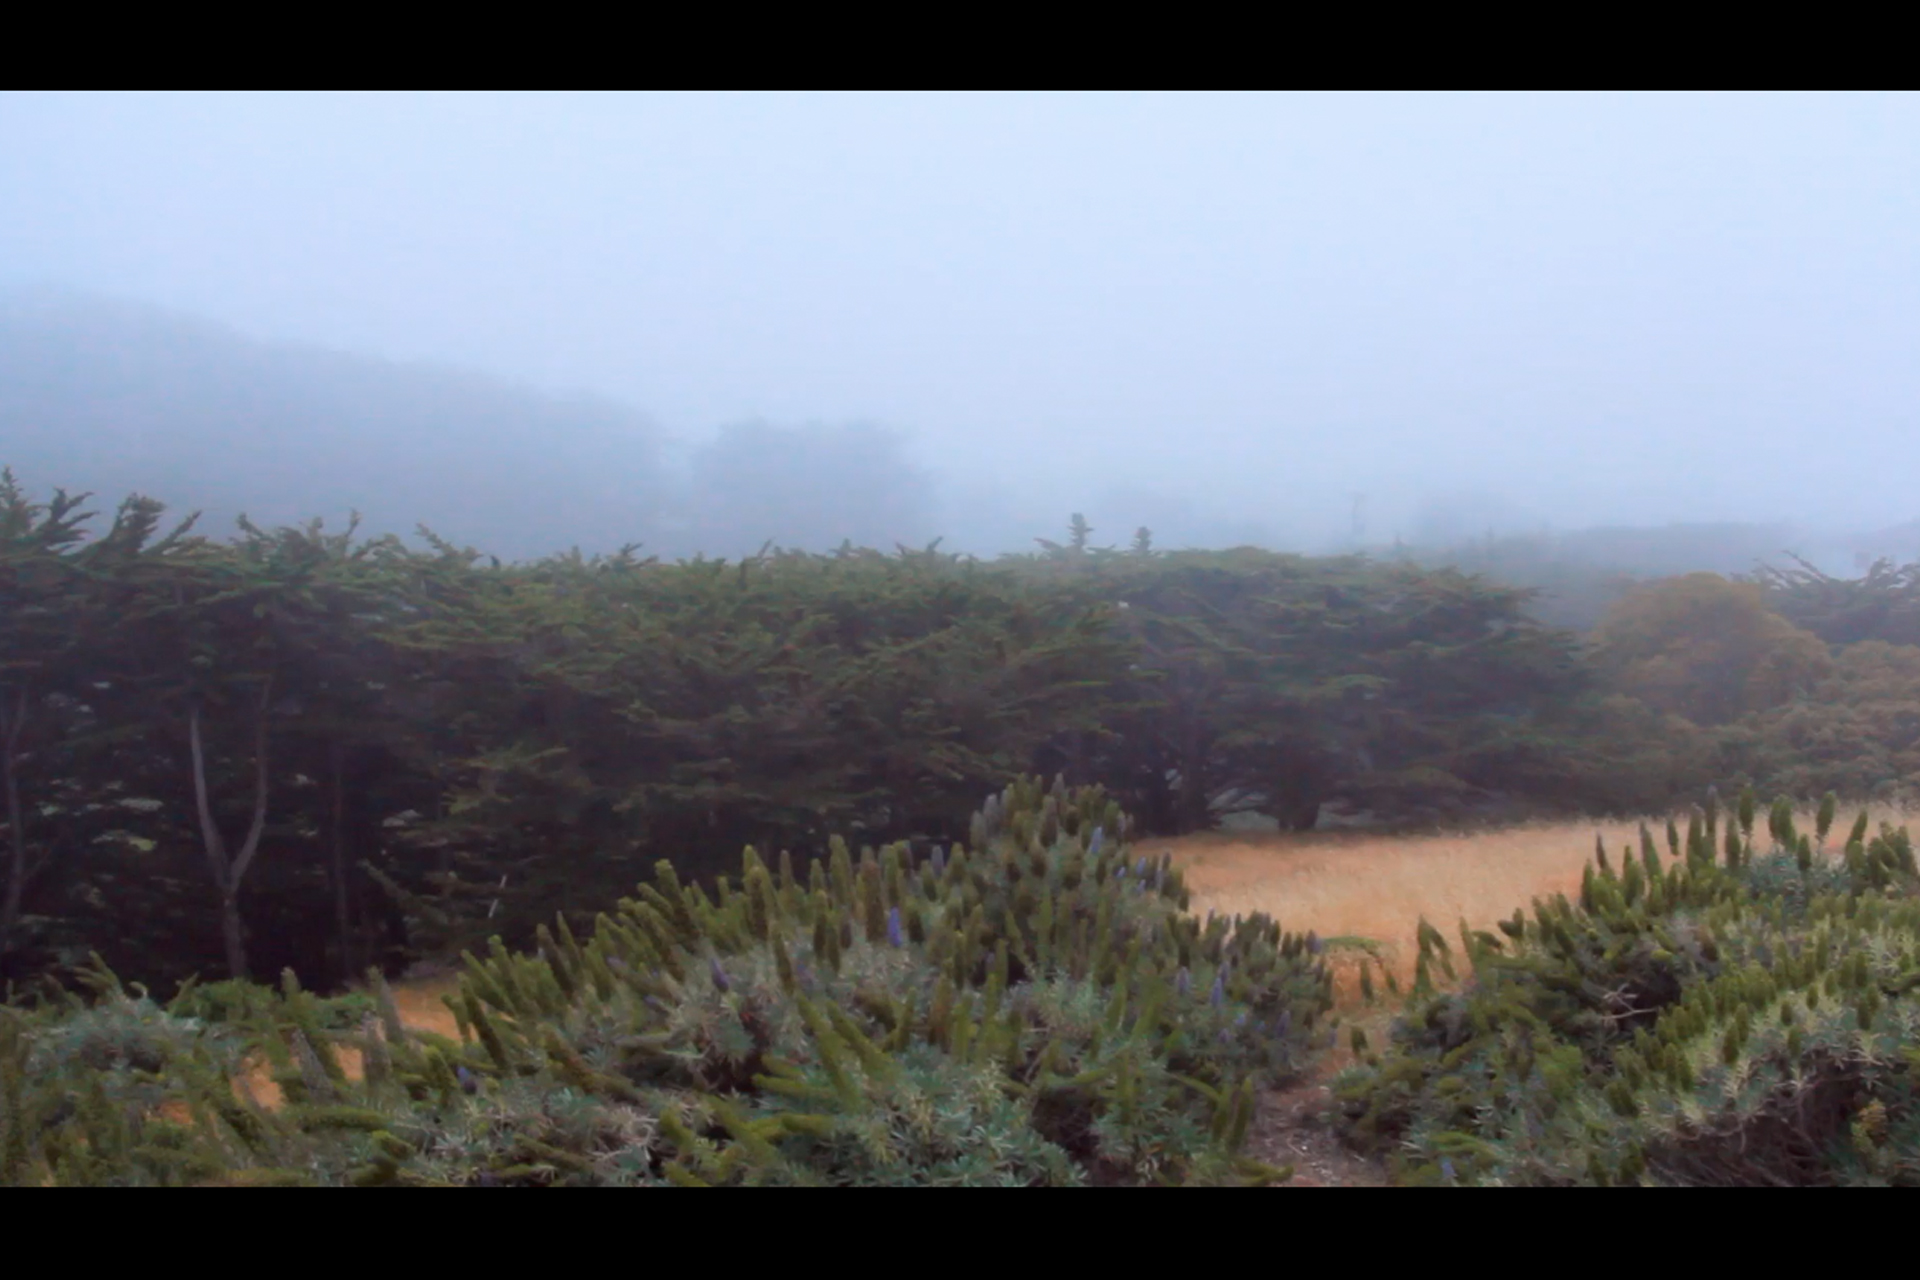
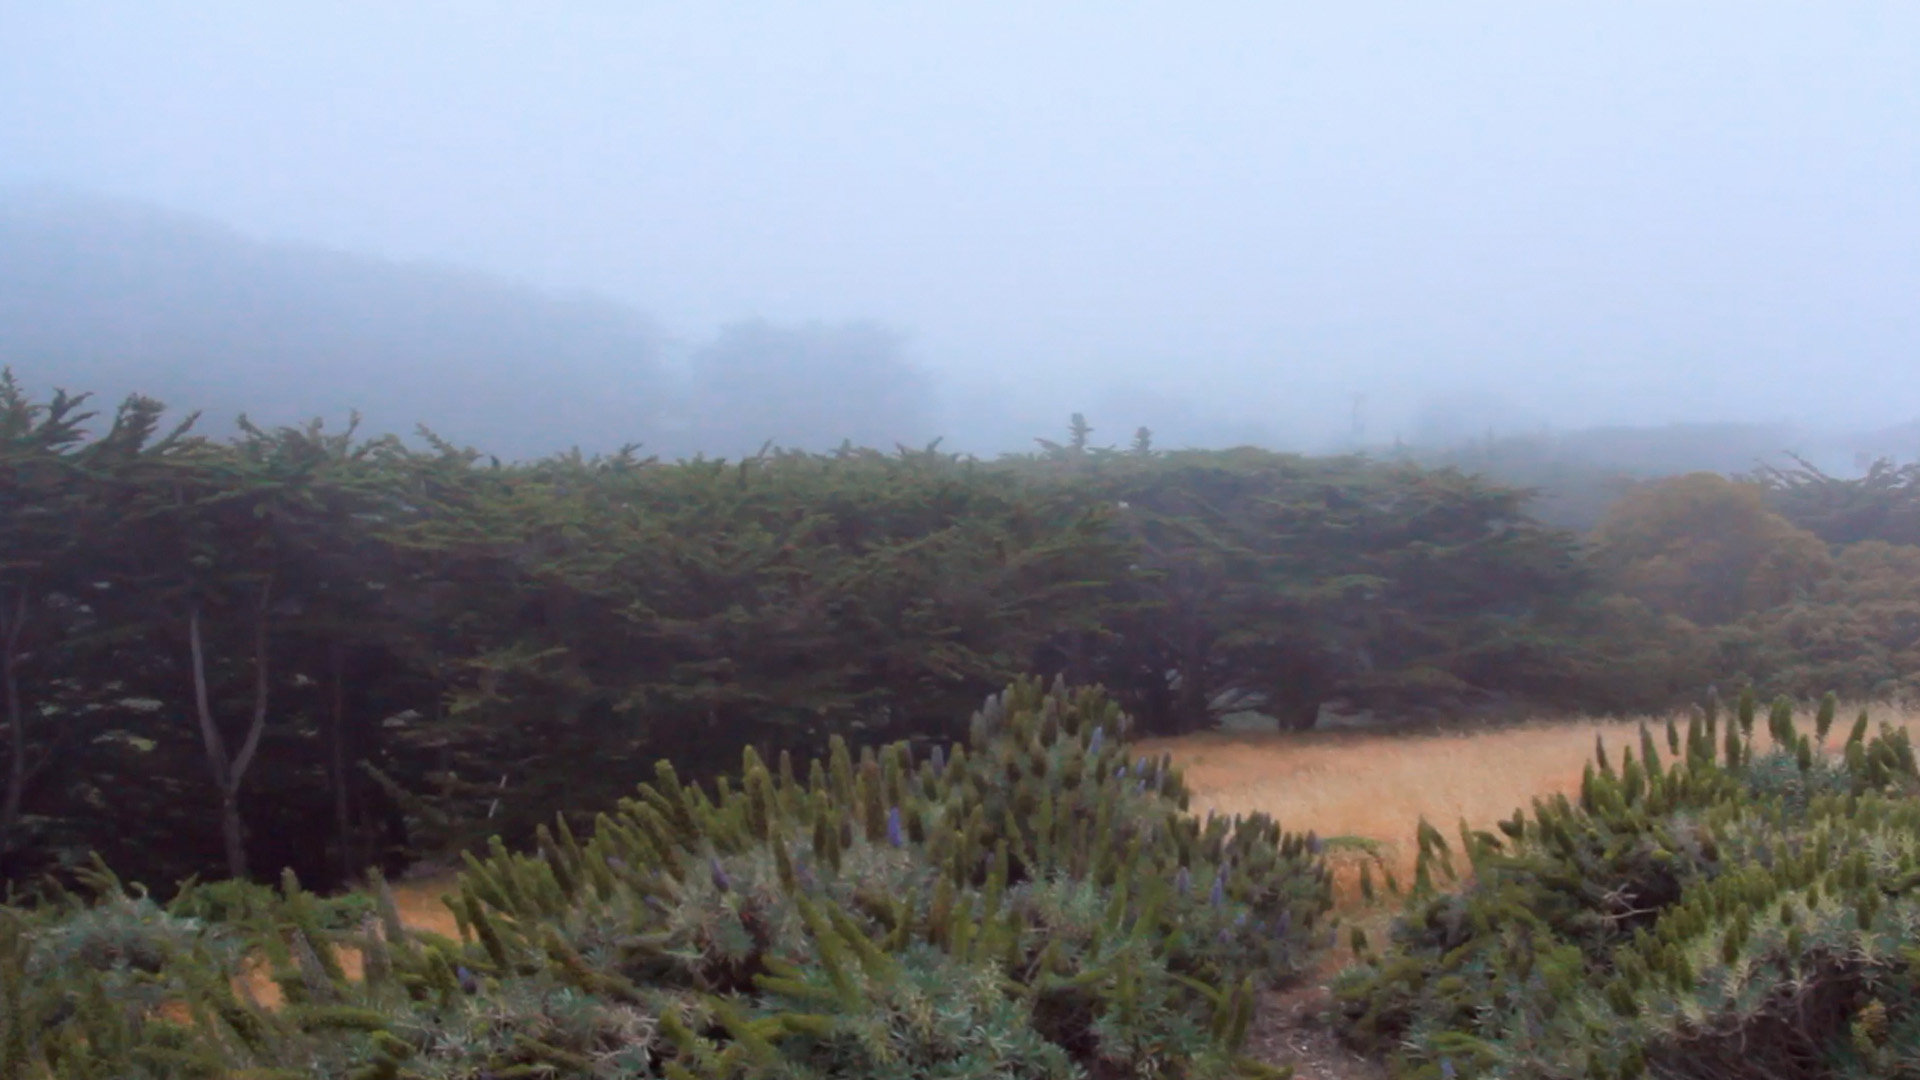
Removed black bars from images.

diff --git a/js/vales.js b/js/vales.js
@@ -4,10 +4,13 @@ $(document).ready(function() {
             {
                 id: 0,
                 sources: [
+                    // For each src, specify the TYPE and SRC properties. For Safari-compatible playback, list mp4 first followed by webm and ogv.
                     { src: 'videos/SALMON_LOOPS_d4.mp4', type: 'video/mp4'}
                 ],
-                config: {                    
+                config: {
+                    // Poster image to display for this video while it's not playing.
                     poster: "images/SALMON_LOOPS.jpg",
+                    // If autoplay is true, video will be played automatically when its predecessor is completed.
                     autoplay: true
                 }                
             },
@@ -119,6 +122,9 @@ $(document).ready(function() {
                 _this.bigVideo = new $.BigVideo({useFlashForFirefox:false, container:$('.active')});
                 _this.bigVideo.init();
                 _this.bigVideo.show(cp.sources);
+                _this.bigVideo.getPlayer().on('ended', function(e) {           
+                    _this.checkNextPlay(e);
+                });
             });
             // Activate listener method
             _this.listen();                     
@@ -142,10 +148,6 @@ $(document).ready(function() {
                 // Otherwise we figure out what to play next and detach the event handler to prevent chaos.                  
                 _this.playTrack(e.currentTarget);                
             });
-            // Event listener for when a video ends.
-            _this.bigVideo.onEnded = function(e) {
-                _this.checkNextPlay(e);
-            };
         },
         checkNextPlay: function(event) {
             var _this = this;
@@ -154,9 +156,10 @@ $(document).ready(function() {
             // Start from first video if current is the last.
             if(currentVideo == playlist.length - 1) { _this.playTrack('.item-0'); return; }
             // Find the next video in the playlist array with autoplay enabled.
-            for (var i = 0; i < playlist.length; i--) {                    
+            for (var i = 0; i < playlist.length; i++) {                    
                 if(i > currentVideo && playlist[i].config.autoplay == true) {                    
                     _this.playTrack('.item-'+i);
+                    return;
                 }
             };
         },     
